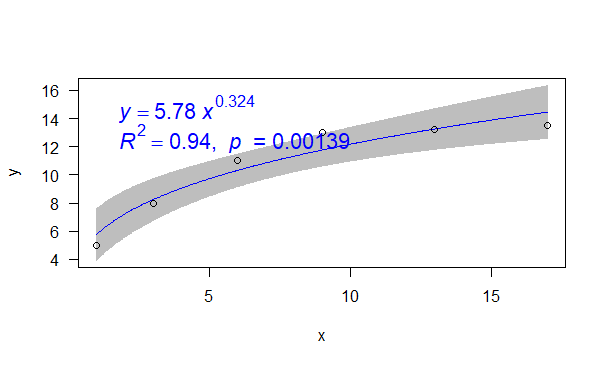
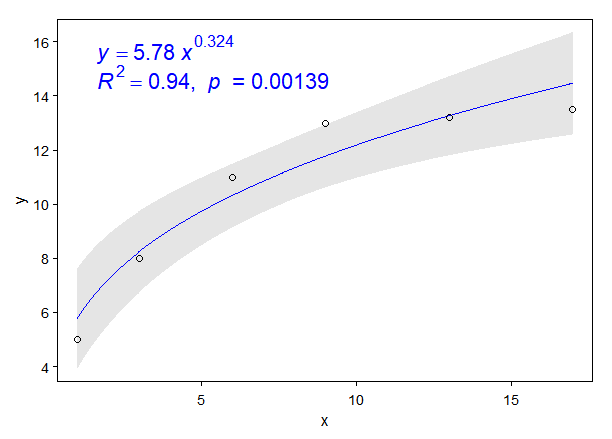
version 2.0.6

diff --git a/README.md b/README.md
@@ -33,27 +33,10 @@ Or the development version from github:
 	devtools::install_github("PhDMeiwp/basicTrendline@master", force = TRUE)
 
 
-## Changes in version 2.0.3	
+## Changes in version 2.0.5 (2020-11-23)
 
-- add several arguments to `trendline()` function, including show.equation, show.Rpvalue, Rname, Pname, xname, yname, yhat, CI.fill, CI.level, CI.alpha, CI.color, CI.lty, CI.lwd, ePos.x, ePos.y, las.
-- enable to draw confidence interval for regression models (arguments CI.fill, CI.level, etc.)
-- add 'show.equation' and show.Rpvale' arguments to enable to choose which parameter to show
-- add 'Rname' and 'Pname' arguments to specify the character of R-square and P-vlaue (i.e. R^2 or r^2; P or p)
-- add 'xname' and 'ynameto' arguments to specify the character of 'x' and 'y' in the equation
-- add 'yhat' argument to enable to add a hat symbol on the top of 'y' in the equation
-- add 'ePos.x' and 'ePos.y' arguments to specify the x and y co-ordinates of equation's position
-- deleted the 'ePos' argument 
-- add "Residual Sum of Squares" to the output of 'trendline_summary()' function
+- divide 'show.Rpvalue' into tow parameters named 'show.Rsquare' and 'show.pvalue'.
 
-## Changes in version 1.2.0
-
-- change the expression for `model` of `exp3P` using a supscript
-- add `trendline_summary()` function
-- add `SSexp2P()` function
-- add `SSpower2P` function
-- add `Pvalue.corrected` argument in `trendline()` and `trendline_summary()` , for P-vlaue calculation for non-linear regression.
-- add `Details` in `trendline()` and `trendline_summary()` 
-- add `...` argument in `trendline()` as same as those in `plot()`
 
 ---
 
@@ -62,6 +45,15 @@ Or the development version from github:
 		library(basicTrendline)
 		x <- c(1, 3, 6,  9,  13,   17)
 		y <- c(5, 8, 11, 13, 13.2, 13.5)
+
+
+# [case 0]  ggplot2-like trendline by par {graphics}
+
+		par(mgp=c(1.5,0.4,0), mar=c(3,3,1,1), tck=-0.01, cex.axis=0.9)
+		trendline(x, y, "exp3P")
+		# dev.off()
+
+<img src="docs/images/case0.png" width="490"/>
 
 # [case 1] default
 		trendline(x, y, model="line2P", ePos.x = "topleft", summary=TRUE, eDigit=5)
@@ -79,7 +71,7 @@ Or the development version from github:
 <img src="docs/images/case3.png" width="490"/>
 
 # [case 4]  show regression equation only (set show.Rpvalue = FALSE)
-		trendline(x, y, model="exp2P", show.equation = TRUE, show.Rpvalue = FALSE)
+		trendline(x, y, model="exp2P", show.equation = TRUE, show.Rsquare = FALSE, show.pvalue = FALSE)
 
 <img src="docs/images/case4.png" width="490"/>
 
@@ -100,17 +92,6 @@ Or the development version from github:
 
 <img src="docs/images/case7.png" width="490"/>
 
-# [case 8]  set graphical parameters by par {graphics}
-		### NOT RUN
-		par(mgp=c(1.5,0.4,0), mar=c(3,3,1,1), tck=-0.01, cex.axis=0.9)
-
-		trendline(x, y)
-
-		dev.off()
-
-		### END (NOT RUN)
-	
-<img src="docs/images/case8.png" width="490"/>
 
 ---
 
@@ -140,7 +121,7 @@ Besides, the summarized results of each fitted model are also output by default.
 
      trendline(x, y, model = "line2P", Pvalue.corrected = TRUE,
 			linecolor = "blue", lty = 1, lwd = 1, 
-			show.equation = TRUE, show.Rpvalue = TRUE, 
+			show.equation = TRUE, show.Rsquare = TRUE, show.pvalue = TRUE,
 			Rname = 1, Pname = 0, xname = "x", yname = "y",
 			yhat = FALSE, 
 			summary = TRUE, 
@@ -178,8 +159,11 @@ line width. Default is 1.
 <br>**show.equation**	<br>
 whether to show the regression equation, the value is one of c("TRUE", "FALSE").
 
-<br>**show.Rpvalue**	<br>
-whether to show the R-square and P-value, the value is one of c("TRUE", "FALSE").
+<br>**show.Rsquare**	<br>
+whether to show the R-square, the value is one of c("TRUE", "FALSE").
+
+<br>**show.pvalue**	<br>
+whether to show the P-value, the value is one of c("TRUE", "FALSE").
 
 <br>**Rname**	<br>	
 to specify the character of R-square, the value is one of c(0, 1), corresponding to c(r^2, R^2).
@@ -241,9 +225,9 @@ additional parameters to plot,such as type, main, sub, xlab, ylab, col.
 ## Details
 
 The linear models (line2P, line3P, log2P) in this package are estimated by **lm** function, while the **nonlinear models (exp2P, exp3P, power2P, power3P)** are estimated by **nls** function (i.e., **least-squares method**).
-<br>The argument 'Pvalue.corrected' is workful for non-linear regression only.
+<br>The argument 'Pvalue.corrected' is only valid for non-linear regression.
 <br>If "Pvalue.corrected = TRUE", the P-vlaue is calculated by using "Residual Sum of Squares" and "Corrected Total Sum of Squares (i.e. sum((y-mean(y))^2))".
-<br>If "Pvalue.corrected = TRUE", the P-vlaue is calculated by using "Residual Sum of Squares" and "Uncorrected Total Sum of Squares (i.e. sum(y^2))".
+<br>If "Pvalue.corrected = FALSE", the P-vlaue is calculated by using "Residual Sum of Squares" and "Uncorrected Total Sum of Squares (i.e. sum(y^2))".
 
 ## Note
 
